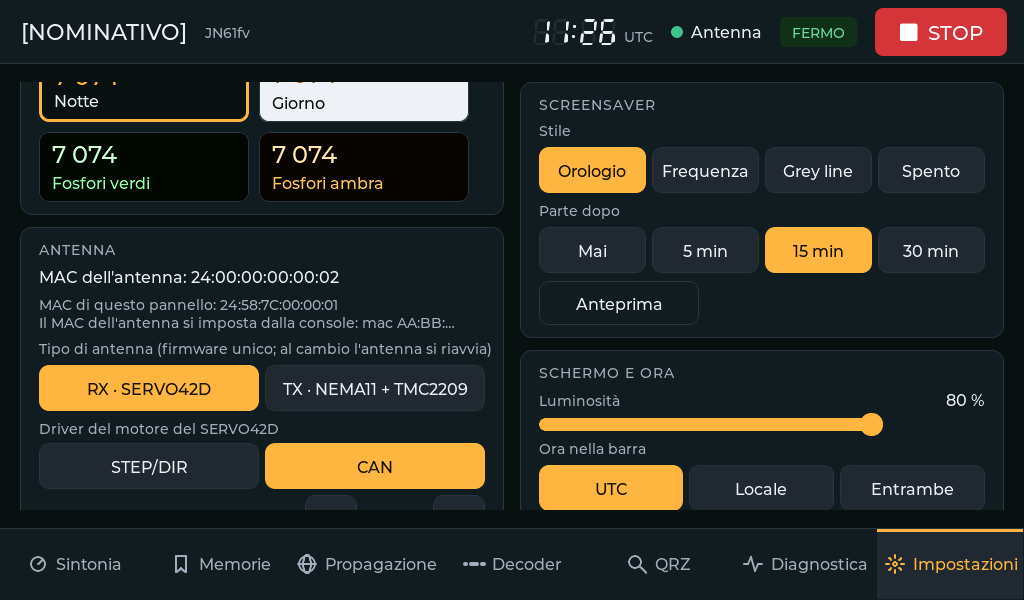
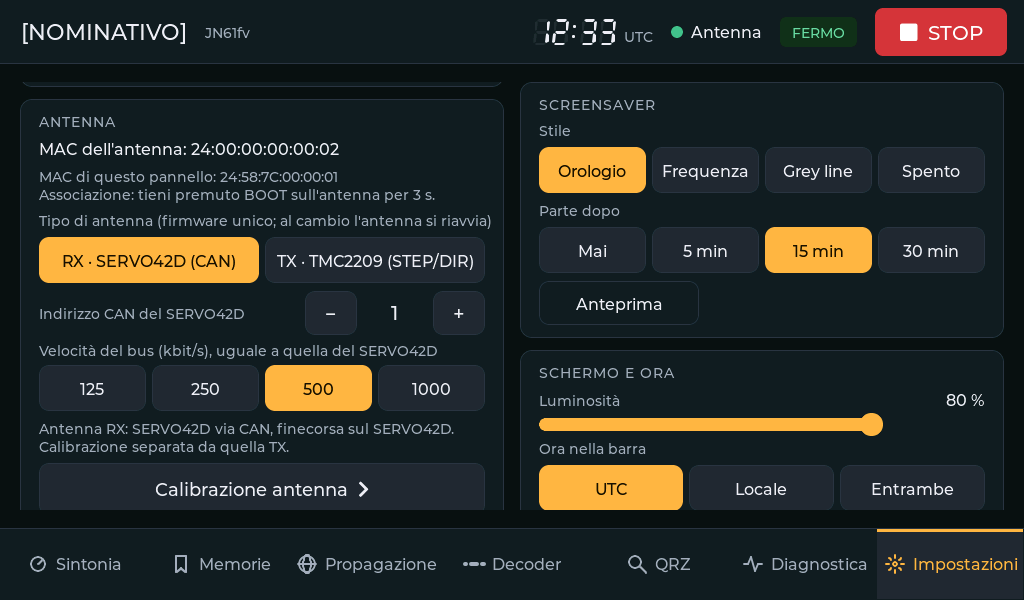
Driver del motore secondo il tipo di antenna: TX in STEP/DIR, RX via CAN
Sono due modelli di antenna: la TX (che riceve anche) accorda in STEP/DIR con il
TMC2209 e ha i finecorsa sull'ESP32; la RX accorda via CAN con il SERVO42D e ha i
finecorsa sul servo. Tolta la scelta separata STEP/DIR o CAN per l'RX:
- antenna: movimento::viaCan() segue tipo_antenna; comando "motore" rimosso;
  parametro MODO_MOTORE non più usato; STEP/DIR inizializzato solo per il TX;
- pannello: in Impostazioni -> Antenna solo il tipo, e per l'RX indirizzo e
  velocità del CAN.
Provato sulle schede: antenna RX con motore via CAN, collegamento attivo.

Changed region(s): [[0.0312, 0.12, 0.5, 0.84], [0.5312, 0.03, 0.5938, 0.09]]

diff --git a/firmware/pannello/src/ui/pagina_impostazioni.cpp b/firmware/pannello/src/ui/pagina_impostazioni.cpp
@@ -29,8 +29,7 @@ lv_obj_t* campoSsid;
 lv_obj_t* campoPassword;
 lv_obj_t* testoRete;
 lv_obj_t* testoLuce;
-lv_obj_t* boxCan;
-lv_obj_t* boxRx;  // driver del motore: solo antenna RX
+lv_obj_t* boxRx;  // parametri CAN del SERVO42D: solo antenna RX
 uint8_t gruppoTipo = 0;
 uint32_t cambioTipoAlle = 0;  // millis della richiesta di cambio tipo (0 = nessuna)
 lv_obj_t* testoCanId;
@@ -232,17 +231,6 @@ void tipoCambiato() {
   mostraRx();
   cambioTipoAlle = millis();
   motore_antenna::inviaTipo();
-}
-
-void mostraCan() {
-  if (motore_antenna::scelte().modo == 1) lv_obj_clear_flag(boxCan, LV_OBJ_FLAG_HIDDEN);
-  else lv_obj_add_flag(boxCan, LV_OBJ_FLAG_HIDDEN);
-}
-
-void modoCambiato() {
-  mostraCan();
-  if (motore_antenna::scelte().modo == 1) motore_antenna::inviaCan();  // prima indirizzo e velocità
-  motore_antenna::inviaModo();
 }
 
 void kbitCambiato() { motore_antenna::inviaCan(); }
@@ -548,23 +536,17 @@ void crea(lv_obj_t* c) {
   Collegamento::scriviMac(mio, mac);
   l = ui::etichetta(an, "", &font_14, t.text2);
   lv_label_set_text_fmt(l, "MAC di questo pannello: %s\nAssociazione: tieni premuto BOOT sull'antenna per 3 s.", mac);
-  static const char* const MODI_MOTORE[] = {"STEP/DIR", "CAN"};
-  static const uint8_t V_MODI_MOTORE[] = {0, 1};
   static const char* const KBIT[] = {"125", "250", "500", "1000"};
   static const uint8_t V_KBIT[] = {0, 1, 2, 3};
   motore_antenna::Scelte& mot = motore_antenna::scelte();
-  static const char* const TIPI[] = {"RX · SERVO42D", "TX · NEMA11 + TMC2209"};
+  static const char* const TIPI[] = {"RX · SERVO42D (CAN)", "TX · TMC2209 (STEP/DIR)"};
   static const uint8_t V_TIPI[] = {0, 1};
   ui::etichetta(an, "Tipo di antenna (firmware unico; al cambio l'antenna si riavvia)", &font_14, t.text2);
   gruppoTipo = numGruppi;
   gruppo(an, TIPI, V_TIPI, 2, &mot.tipo, tipoCambiato);
   boxRx = ui::contenitore(an, LV_FLEX_FLOW_COLUMN, 6);
   lv_obj_set_width(boxRx, LV_PCT(100));
-  ui::etichetta(boxRx, "Driver del motore del SERVO42D", &font_14, t.text2);
-  gruppo(boxRx, MODI_MOTORE, V_MODI_MOTORE, 2, &mot.modo, modoCambiato);
-  boxCan = ui::contenitore(boxRx, LV_FLEX_FLOW_COLUMN, 6);
-  lv_obj_set_width(boxCan, LV_PCT(100));
-  lv_obj_t* rid = ui::contenitore(boxCan, LV_FLEX_FLOW_ROW, 8);
+  lv_obj_t* rid = ui::contenitore(boxRx, LV_FLEX_FLOW_ROW, 8);
   lv_obj_set_width(rid, LV_PCT(100));
   lv_obj_set_flex_align(rid, LV_FLEX_ALIGN_START, LV_FLEX_ALIGN_CENTER, LV_FLEX_ALIGN_CENTER);
   lv_obj_t* lid = ui::etichetta(rid, "Indirizzo CAN del SERVO42D", &font_14, t.text2);
@@ -579,12 +561,11 @@ void crea(lv_obj_t* c) {
   lv_obj_t* piu = ui::pulsante(rid, "+", &font_20, ui::Stile::NORMALE);
   lv_obj_set_size(piu, 52, 44);
   lv_obj_add_event_cb(piu, premiCanId, LV_EVENT_CLICKED, (void*)(intptr_t)1);
-  ui::etichetta(boxCan, "Velocità del bus (kbit/s), uguale a quella del SERVO42D", &font_14, t.text2);
-  gruppo(boxCan, KBIT, V_KBIT, 4, &mot.kbitIdx, kbitCambiato);
+  ui::etichetta(boxRx, "Velocità del bus (kbit/s), uguale a quella del SERVO42D", &font_14, t.text2);
+  gruppo(boxRx, KBIT, V_KBIT, 4, &mot.kbitIdx, kbitCambiato);
   statoMotore = ui::etichetta(an, "", &font_14, t.text2);
   lv_label_set_long_mode(statoMotore, LV_LABEL_LONG_WRAP);
   lv_obj_set_width(statoMotore, LV_PCT(100));
-  mostraCan();
   mostraRx();
   lv_obj_t* cal = ui::pulsante(an, "Calibrazione antenna  " LV_SYMBOL_RIGHT, &font_18, ui::Stile::NORMALE);
   lv_obj_set_size(cal, LV_PCT(100), 52);
@@ -706,13 +687,9 @@ void aggiorna(const link_antenna::Stato& s) {
   } else if (!s.collegato) {
     lv_label_set_text(statoMotore, "Antenna non collegata: la scelta verrà inviata quando risponde.");
   } else if (s.r.flag & proto::FLAG_VERSIONE_TX) {
-    lv_label_set_text(statoMotore, "Antenna TX: motore sempre in STEP/DIR (TMC2209). Calibrazione separata da quella RX.");
+    lv_label_set_text(statoMotore, "Antenna TX: TMC2209 in STEP/DIR, finecorsa sull'ESP32. Calibrazione separata da quella RX.");
   } else {
-    bool can = s.r.flag & proto::FLAG_CAN;
-    bool uguale = can == (motore_antenna::scelte().modo == 1);
-    snprintf(buf, sizeof(buf), "Antenna RX · motore via %s%s", can ? "CAN" : "STEP/DIR",
-             uguale ? "" : " · cambio non applicato (motore in movimento?)");
-    lv_label_set_text(statoMotore, buf);
+    lv_label_set_text(statoMotore, "Antenna RX: SERVO42D via CAN, finecorsa sul SERVO42D. Calibrazione separata da quella TX.");
   }
   rete::stato(buf, sizeof(buf));
   char web[72];

diff --git a/firmware/antenna/src/main.cpp b/firmware/antenna/src/main.cpp
@@ -65,7 +65,7 @@ proto::Risposta preparaRisposta(uint16_t seqComando) {
   r.flag = (movimento::finecorsaMin() ? proto::FLAG_FC_MIN : 0) |
            (movimento::finecorsaMax() ? proto::FLAG_FC_MAX : 0) |
            (movimento::driverAbilitato() ? proto::FLAG_DRIVER : 0) |
-           (movimento::modo() == movimento::Modo::CAN ? proto::FLAG_CAN : 0) |
+           (movimento::viaCan() ? proto::FLAG_CAN : 0) |
            (tipo_antenna::tx() ? proto::FLAG_VERSIONE_TX : 0) |
            (movimento::azzerato() ? proto::FLAG_AZZERATA : 0);
   return r;
@@ -183,9 +183,8 @@ void esegui(const proto::Comando& c, bool daRadio) {
       cancellaErrori();
       bool ok = false;
       switch ((proto::Parametro)c.freq_hz) {
-        case proto::Parametro::MODO_MOTORE:
-          ok = movimento::impostaModo(c.valore == 1 ? movimento::Modo::CAN : movimento::Modo::STEP_DIR);
-          if (ok) targetInSospeso = false;  // con l'altro driver serve un nuovo azzeramento
+        case proto::Parametro::MODO_MOTORE:  // non più usato: il driver segue il tipo di antenna
+          ok = (c.valore == 1) == movimento::viaCan();
           break;
         case proto::Parametro::CAN_ID:
           ok = movimento::impostaCan((uint16_t)c.valore, movimento::canKbit());
@@ -307,7 +306,7 @@ void aggiornaOled() {
   d.posizione = movimento::posizione();
   d.driver = movimento::driverAbilitato();
   d.tx = tipo_antenna::tx();
-  d.can = movimento::modo() == movimento::Modo::CAN;
+  d.can = movimento::viaCan();
   d.peerValido = radio.peerValido();
   d.collegato = ultimoMessaggioRadio != 0 && millis() - ultimoMessaggioRadio < cfg::TIMEOUT_HEARTBEAT_MS;
   d.rssi = ultimoRssi;
@@ -332,17 +331,17 @@ void stampaStato() {
                 movimento::finecorsaMax());
   Serial.printf("ESP-NOW: canale %u\n", canale);
   Serial.printf("Antenna: %s\n", tipo_antenna::tx() ? "TX (NEMA11 + TMC2209)" : "RX (SERVO42D)");
-  if (movimento::modo() == movimento::Modo::CAN)
+  if (movimento::viaCan())
     Serial.printf("Motore: CAN (SERVO42D indirizzo %u, %u kbit/s)\n", movimento::canId(), movimento::canKbit());
   else
-    Serial.println("Motore: STEP/DIR");
+    Serial.println("Motore: STEP/DIR (TMC2209)");
 }
 
 void aiuto() {
   Serial.println(
       "Comandi: goto <kHz> | stop | zero | jog <passi> | cal <kHz> | calelim <kHz> | calcanc <kHz> |\n"
       "         tabella | stato | mac <AA:BB:CC:DD:EE:FF> | canale <1-13> | associa |\n"
-      "         tipo tx|rx | motore stepdir|can | canid <1-2047> | cankbit <125|250|500|1000> (solo RX) | aiuto");
+      "         tipo tx|rx | canid <1-2047> | cankbit <125|250|500|1000> (solo RX) | aiuto");
 }
 
 void eseguiRiga(char* riga) {
@@ -372,10 +371,6 @@ void eseguiRiga(char* riga) {
     c.tipo = proto::Tipo::IMPOSTA;
     c.freq_hz = (uint32_t)proto::Parametro::TIPO_ANTENNA;
     c.valore = !strcmp(arg, "tx") ? 1 : 0;
-  } else if (!strcmp(cmd, "motore") && arg) {
-    c.tipo = proto::Tipo::IMPOSTA;
-    c.freq_hz = (uint32_t)proto::Parametro::MODO_MOTORE;
-    c.valore = !strcmp(arg, "can") ? 1 : 0;
   } else if (!strcmp(cmd, "canid") && arg) {
     c.tipo = proto::Tipo::IMPOSTA;
     c.freq_hz = (uint32_t)proto::Parametro::CAN_ID;

diff --git a/firmware/antenna/src/movimento.cpp b/firmware/antenna/src/movimento.cpp
@@ -10,17 +10,15 @@
 namespace movimento {
 namespace {
 
-Modo modo_ = Modo::STEP_DIR;
 uint16_t id_ = cfg::CAN_ID_PREDEFINITO;
 uint16_t kbit_ = cfg::CAN_KBIT_PREDEFINITO;
 Preferences nvs;
 
-bool can() { return !tipo_antenna::tx() && modo_ == Modo::CAN; }
+bool can() { return !tipo_antenna::tx(); }  // TX: STEP/DIR (TMC2209); RX: CAN (SERVO42D)
 
 bool kbitValido(uint16_t k) { return k == 125 || k == 250 || k == 500 || k == 1000; }
 
 void salva() {
-  nvs.putUChar("modo", (uint8_t)modo_);
   nvs.putUShort("canid", id_);
   nvs.putUShort("cankbit", kbit_);
 }
@@ -34,14 +32,12 @@ void avviaCan() {
 
 void inizia() {
   nvs.begin("motore", false);
-  modo_ = (Modo)nvs.getUChar("modo", (uint8_t)Modo::STEP_DIR);
   id_ = nvs.getUShort("canid", cfg::CAN_ID_PREDEFINITO);
   kbit_ = nvs.getUShort("cankbit", cfg::CAN_KBIT_PREDEFINITO);
-  if (tipo_antenna::tx() || modo_ > Modo::CAN) modo_ = Modo::STEP_DIR;  // il TX usa sempre STEP/DIR
   if (!kbitValido(kbit_)) kbit_ = cfg::CAN_KBIT_PREDEFINITO;
 
-  stepdir::inizia();  // sempre: con il CAN attivo resta fermo con il driver disabilitato
   if (can()) avviaCan();
+  else stepdir::inizia();
 }
 
 void aggiorna() {
@@ -62,17 +58,7 @@ bool driverAbilitato() { return can() ? can42d::driverAbilitato() : stepdir::dri
 proto::Errore errore() { return can() ? can42d::errore() : stepdir::errore(); }
 void cancellaErrore() { can() ? can42d::cancellaErrore() : stepdir::cancellaErrore(); }
 
-bool impostaModo(Modo m) {
-  if (tipo_antenna::tx() || m > Modo::CAN || inMovimento()) return false;
-  if (m == modo_) return true;
-  if (modo_ == Modo::CAN) can42d::fine();
-  modo_ = m;
-  salva();
-  if (can()) avviaCan();
-  return true;
-}
-
-Modo modo() { return modo_; }
+bool viaCan() { return can(); }
 
 bool impostaCan(uint16_t id, uint16_t kbit) {
   if (tipo_antenna::tx() || id < 1 || id > 2047 || !kbitValido(kbit) || inMovimento()) return false;

diff --git a/firmware/antenna/src/movimento.h b/firmware/antenna/src/movimento.h
@@ -1,4 +1,5 @@
-// Movimento del condensatore: smista i comandi al driver scelto (STEP/DIR o CAN).
+// Movimento del condensatore: smista i comandi al driver del tipo di antenna
+// (TX: STEP/DIR con il TMC2209; RX: CAN con il SERVO42D).
 // Regole: docs/software/02-unita-antenna.md
 #pragma once
 #include <stdint.h>
@@ -6,8 +7,6 @@
 #include "protocollo.h"
 
 namespace movimento {
-
-enum class Modo : uint8_t { STEP_DIR = 0, CAN = 1 };
 
 void inizia();
 void aggiorna();  // da chiamare a ogni giro del loop
@@ -27,11 +26,9 @@ bool driverAbilitato();
 proto::Errore errore();
 void cancellaErrore();
 
-// Driver del motore (solo antenna RX: il TX usa sempre STEP/DIR). Salvato in NVS.
-// Il tipo di antenna (TX/RX) è in tipo_antenna.h.
-// false se non si può cambiare (antenna TX o motore in movimento). Dopo il cambio serve un nuovo azzeramento.
-bool impostaModo(Modo m);
-Modo modo();
+// Il driver segue il tipo di antenna (tipo_antenna.h): true con l'antenna RX (SERVO42D via CAN).
+bool viaCan();
+// Parametri del bus CAN (solo antenna RX), salvati in NVS. false se non validi o con il motore in movimento.
 bool impostaCan(uint16_t id, uint16_t kbit);  // indirizzo 1-2047, velocità 125/250/500/1000
 uint16_t canId();
 uint16_t canKbit();

diff --git a/firmware/antenna/include/config.h b/firmware/antenna/include/config.h
@@ -7,6 +7,7 @@ namespace cfg {
 
 // --- Pin (ESP32 DevKit 30 pin, tutti presenti anche sulla 38 pin; evitare 0, 2, 12, 15;
 //     analogici solo ADC1 32-39) ---
+// STEP/DIR/EN, UART e finecorsa: solo antenna TX (TMC2209)
 constexpr int PIN_STEP = 18;
 constexpr int PIN_DIR = 19;
 constexpr int PIN_EN = 23;     // attivo basso (TMC2209 e SERVO42D); libero all'accensione, niente pull interne
@@ -16,8 +17,7 @@ constexpr int PIN_FC_MIN = 27;  // finecorsa lato zero
 constexpr int PIN_FC_MAX = 14;  // finecorsa lato opposto
 constexpr bool FC_ATTIVO_BASSO = true;  // microswitch verso massa, pull-up + RC 100 nF
 
-// CAN verso il SERVO42D (antenna RX, alternativa a STEP/DIR): transceiver Waveshare SN65HVD230.
-// Il driver (STEP/DIR o CAN) si sceglie dal pannello e resta salvato in NVS.
+// CAN verso il SERVO42D (antenna RX): transceiver Waveshare SN65HVD230. Finecorsa collegati al SERVO42D.
 constexpr int PIN_CAN_TX = 17;  // TX2 -> CTX del transceiver
 constexpr int PIN_CAN_RX = 16;  // RX2 -> CRX del transceiver
 constexpr uint16_t CAN_ID_PREDEFINITO = 1;      // indirizzo del SERVO42D (menu del driver)

diff --git a/firmware/lib/Comune/src/protocollo.h b/firmware/lib/Comune/src/protocollo.h
@@ -38,11 +38,11 @@ constexpr uint8_t FLAG_FC_MAX = 1 << 1;      // finecorsa MAX premuto
 constexpr uint8_t FLAG_DRIVER = 1 << 2;      // driver abilitato (motore in coppia)
 constexpr uint8_t FLAG_VERSIONE_TX = 1 << 3; // antenna TX (altrimenti RX)
 constexpr uint8_t FLAG_AZZERATA = 1 << 4;    // posizione nota
-constexpr uint8_t FLAG_CAN = 1 << 5;         // motore pilotato via CAN (SERVO42D), altrimenti STEP/DIR
+constexpr uint8_t FLAG_CAN = 1 << 5;         // motore via CAN (SERVO42D, antenna RX), altrimenti STEP/DIR (TX)
 
 // Parametri del comando IMPOSTA (nel campo freq_hz)
 enum class Parametro : uint32_t {
-  MODO_MOTORE = 1,  // 0 = STEP/DIR, 1 = CAN (solo antenna RX con SERVO42D)
+  MODO_MOTORE = 1,  // non più usato: il driver segue il tipo di antenna (TX STEP/DIR, RX CAN)
   CAN_ID = 2,       // indirizzo del SERVO42D, 1-2047
   CAN_KBIT = 3,     // velocità del bus: 125, 250, 500 o 1000
   TIPO_ANTENNA = 4, // 1 = TX (NEMA11 + TMC2209), 0 = RX (SERVO42D); l'antenna risponde e poi si riavvia

diff --git a/firmware/pannello/src/motore_antenna.cpp b/firmware/pannello/src/motore_antenna.cpp
@@ -8,12 +8,11 @@ namespace motore_antenna {
 namespace {
 
 const uint16_t KBIT[] = {125, 250, 500, 1000};
-Scelte s = {0, 0, 1, 2};
+Scelte s = {0, 1, 2};
 Preferences nvs;
 
 void salva() {
   nvs.putUChar("tipo", s.tipo);
-  nvs.putUChar("modo", s.modo);
   nvs.putUShort("canid", s.canId);
   nvs.putUChar("kbit", s.kbitIdx);
 }
@@ -23,7 +22,6 @@ void salva() {
 void carica() {
   nvs.begin("motore", false);
   s.tipo = nvs.getUChar("tipo", 0) ? 1 : 0;
-  s.modo = nvs.getUChar("modo", 0) ? 1 : 0;
   s.canId = nvs.getUShort("canid", 1);
   s.kbitIdx = nvs.getUChar("kbit", 2);
   if (s.canId < 1 || s.canId > 2047) s.canId = 1;
@@ -37,11 +35,6 @@ uint16_t kbit() { return KBIT[s.kbitIdx < 4 ? s.kbitIdx : 2]; }
 void inviaTipo() {
   salva();
   link_antenna::invia(proto::Tipo::IMPOSTA, (uint32_t)proto::Parametro::TIPO_ANTENNA, s.tipo);
-}
-
-void inviaModo() {
-  salva();
-  link_antenna::invia(proto::Tipo::IMPOSTA, (uint32_t)proto::Parametro::MODO_MOTORE, s.modo);
 }
 
 void inviaCan() {

diff --git a/firmware/pannello/src/motore_antenna.h b/firmware/pannello/src/motore_antenna.h
@@ -1,5 +1,5 @@
-// Tipo di antenna (TX o RX, firmware unico) e driver del motore dell'antenna RX (STEP/DIR o CAN con il
-// SERVO42D), scelti dal pannello.
+// Tipo di antenna (firmware unico), scelto dal pannello: TX accorda in STEP/DIR (TMC2209), RX via CAN (SERVO42D).
+// Per l'RX anche indirizzo e velocità del bus CAN.
 // Le scelte si salvano qui (NVS "motore") e si inviano all'antenna con il comando IMPOSTA.
 #pragma once
 #include <stdint.h>
@@ -8,7 +8,6 @@ namespace motore_antenna {
 
 struct Scelte {
   uint8_t tipo;      // 0 RX, 1 TX (segue quello dichiarato dall'antenna)
-  uint8_t modo;      // 0 STEP/DIR, 1 CAN
   uint16_t canId;    // 1-2047
   uint8_t kbitIdx;   // 0 = 125, 1 = 250, 2 = 500, 3 = 1000
 };
@@ -17,7 +16,6 @@ void carica();
 Scelte& scelte();
 uint16_t kbit();  // dalla scelta
 void inviaTipo();  // l'antenna risponde e si riavvia con il tipo nuovo
-void inviaModo();
 void inviaCan();  // indirizzo e velocità
 
 }  // namespace motore_antenna

diff --git a/firmware/pannello/simulatore/simulatore.cpp b/firmware/pannello/simulatore/simulatore.cpp
@@ -325,17 +325,16 @@ int main(int argc, char** argv) {
         avanza(300);
       }
     }
-    if (tm == 0) {  // sezione Antenna con l'antenna RX e il motore via CAN
+    if (tm == 0) {  // sezione Antenna con l'antenna RX (SERVO42D via CAN)
       uint8_t flag = statoFinto.r.flag;
       statoFinto.r.flag = proto::FLAG_CAN | proto::FLAG_AZZERATA;
-      motore_antenna::scelte().modo = 1;
+      motore_antenna::scelte().tipo = 0;
       ui::richiediRicostruzione();
       avanza(300);
       ui::vaiA(ui::IMPOSTAZIONI);
       pag_impostazioni::mostraAntenna();
       salva("notte-7d-impostazioni-motore");
       statoFinto.r.flag = flag;
-      motore_antenna::scelte().modo = 0;
       ui::richiediRicostruzione();
       avanza(300);
     }

diff --git a/firmware/antenna/src/motori.h b/firmware/antenna/src/motori.h
@@ -1,7 +1,7 @@
 // I due driver del motore, con la stessa interfaccia:
-// - stepdir: STEP/DIR/EN (TMC2209 sul TX, SERVO42D in modo a impulsi sull'RX), finecorsa sui GPIO;
-// - can42d: SERVO42D comandato via CAN (solo RX), finecorsa collegati al SERVO42D.
-// movimento.cpp sceglie quale usare.
+// - stepdir: antenna TX, STEP/DIR/EN con il TMC2209, finecorsa sui GPIO dell'ESP32;
+// - can42d: antenna RX, SERVO42D comandato via CAN, finecorsa collegati al SERVO42D.
+// movimento.cpp usa quello del tipo di antenna.
 #pragma once
 #include <stdint.h>
 

diff --git a/firmware/antenna/src/motore_stepdir.cpp b/firmware/antenna/src/motore_stepdir.cpp
@@ -1,4 +1,4 @@
-// Driver STEP/DIR/EN: TMC2209 (TX) oppure SERVO42D in modo a impulsi (RX).
+// Driver STEP/DIR/EN dell'antenna TX: TMC2209 (anche via UART).
 // Finecorsa sui GPIO dell'ESP32, azzeramento fatto dal firmware.
 #include "motori.h"
 

diff --git a/docs/memoria/decisioni.md b/docs/memoria/decisioni.md
@@ -20,7 +20,7 @@ Registro delle scelte fatte e delle alternative scartate, con il motivo. Aggiorn
 | Alimentazione | 24 V 2,5 A in casa, convertitore 24→5 V all'antenna | Corrente sufficiente; alimentatore lontano dalla radio |
 | Firmware dell'antenna | Unico per TX e RX: tipo scelto dal pannello (o `tipo tx\|rx`), salvato in NVS, riavvio al cambio; calibrazione separata per tipo; al primo avvio RX | Richiesta dell'utente; niente versioni da scegliere quando si carica |
 | Finecorsa | Antenna RX: sugli ingressi del SERVO42D, che fa lo zero; antenna TX: sull'ESP32 (GPIO 27/14), zero fatto dal firmware | Decisione dell'utente; il TMC2209 non ha ingressi per i finecorsa |
-| Driver del motore RX | Doppio: STEP/DIR o CAN (SERVO42D), scelto dal pannello e salvato in NVS sull'antenna | Il SERVO42D ha già gli ingressi dei finecorsa; in CAN si legge lo stato del driver |
+| Driver del motore | Segue il tipo di antenna: TX in STEP/DIR (TMC2209), RX via CAN (SERVO42D) | Precisazione dell'utente: sono due modelli di antenna; nessuna scelta separata |
 | Transceiver CAN | Waveshare SN65HVD230 (3,3 V) su GPIO 17 (TX2) / 16 (RX2), già in possesso | Stessa tensione dell'ESP32, nessun convertitore di livello; 22/23 lasciati al display |
 | Display all'antenna | OLED 0,96" SSD1306 (ELEGOO) su I2C SDA 21 / SCL 22, facoltativo, spento dopo 2 minuti a riposo | Stato e MAC visibili sul banco e all'installazione; già cablato sui pin I2C standard |
 | EN del motore | GPIO 23 (prima 21) | Il 21 va al display; il 23 è libero all'accensione, il 4 ha una pull-down |
@@ -65,6 +65,7 @@ Registro delle scelte fatte e delle alternative scartate, con il motivo. Aggiorn
 | PlatformIO per l'antenna (core 2.0.17) | Avviso malware di macOS al primo download, causa non trovata; sostituito da arduino-cli |
 | Display sui pin 16/17 con EN e CAN fermi | Scelta dell'utente: il display resta sui pin I2C standard |
 | Password del WiFi all'antenna con l'associazione | Non serve: la ricerca con ACK trova il canale; l'antenna non entra nella rete e la password non resta nella scatola sul balcone |
+| Doppio driver per l'RX (STEP/DIR o CAN scelto dal pannello) | L'RX accorda solo via CAN; la scelta separata creava confusione con i finecorsa |
 | Calibrazione come scheda del pannello | Si usa di rado: spostata dentro Impostazioni |
 | D1 mini ESP8266 all'antenna | Non è un ESP32: un solo ADC, pochi GPIO, niente CAN; FastAccelStepper non lo supporta |
 | ESP32-S3-Zero all'antenna | Chip non schermato e antenna ceramica: troppo esposto all'RF del TX |
